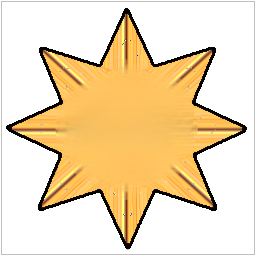
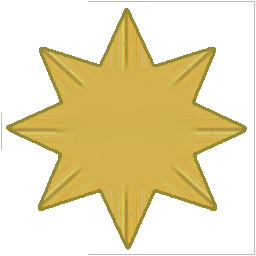
modified vsbadge to reflect color palette, modified recent game participant colors to reflect base palette

diff --git a/src/webapp/features/home/components/RecentGameParticipant/RecentGameParticipant.module.css b/src/webapp/features/home/components/RecentGameParticipant/RecentGameParticipant.module.css
@@ -8,7 +8,7 @@
 }
 
 .participant:nth-of-type(even) {
-  background-color: #062666;
+  background-color: #474671;
   border-top-left-radius: 10px;
   border-top-right-radius: 25px;
 }
@@ -17,7 +17,7 @@
   margin-left: 6rem;
 }
 .participant:nth-of-type(odd) {
-  background-color: #360036;
+  background-color: #390e20;
 }
 
 .nickname {
